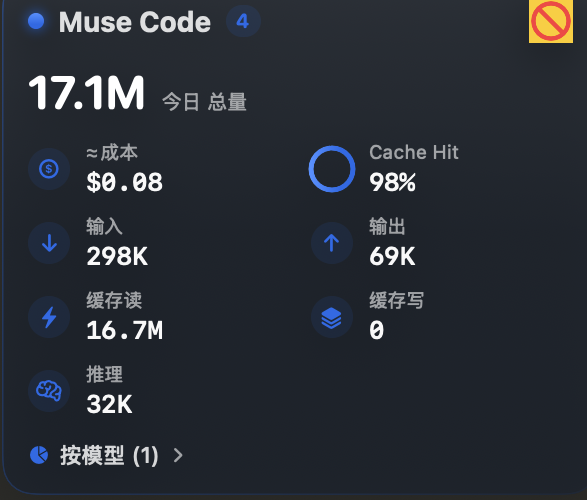
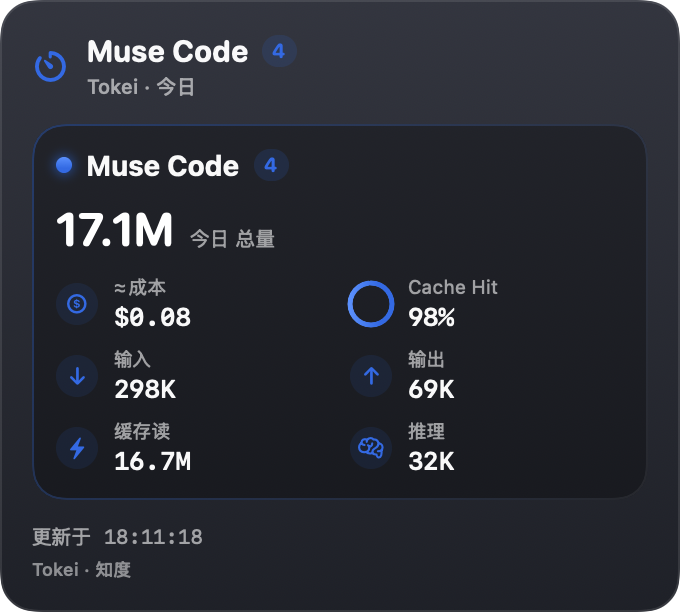
fix(share): 分享图主题色补齐新工具
UsageShareImage.tint(for:) 按展示名匹配，缺失的 Muse Code、
Kimi Code、Prime Agent、DeepSeek Harness 全部掉进默认灰，
卡片复制出来的分享图与面板颜色不一致。补齐四项映射，
并在 UsageSummaryBuilderCheck 加回归断言。

diff --git a/tests/swift/UsageSummaryBuilderCheck.swift b/tests/swift/UsageSummaryBuilderCheck.swift
@@ -137,6 +137,13 @@ struct UsageSummaryBuilderCheck {
             try expect(hasImage, "pasteboard should contain image/png")
         }
 
+        // 分享图按展示名取主题色；漏登记的工具会掉进默认灰（Muse/Kimi/Prime/DeepSeek 曾全灰）。
+        let gray = NSColor(Theme.tTertiary)
+        for name in ["Prime Agent", "DeepSeek Harness", "Kimi Code", "Muse Code"] {
+            let tint = NSColor(UsageShareImage.tint(for: name))
+            try expect(!tint.isEqual(gray), "\(name) share tint must not be gray")
+        }
+
         print("usage summary builder checks passed")
     }
 

diff --git a/Tokei/Sources/Tokei/UsageShareImage.swift b/Tokei/Sources/Tokei/UsageShareImage.swift
@@ -138,6 +138,10 @@ enum UsageShareImage {
         case "WorkBuddy Intl.": return Theme.workbuddyAI
         case "OpenCode": return Theme.opencode
         case "Qwen Code": return Theme.qwencode
+        case "Kimi Code": return Theme.kimicode
+        case "Muse Code": return Theme.musecode
+        case "Prime Agent": return Theme.primeAgent
+        case "DeepSeek Harness": return Theme.deepseekHarness
         default: return Theme.tTertiary
         }
     }
